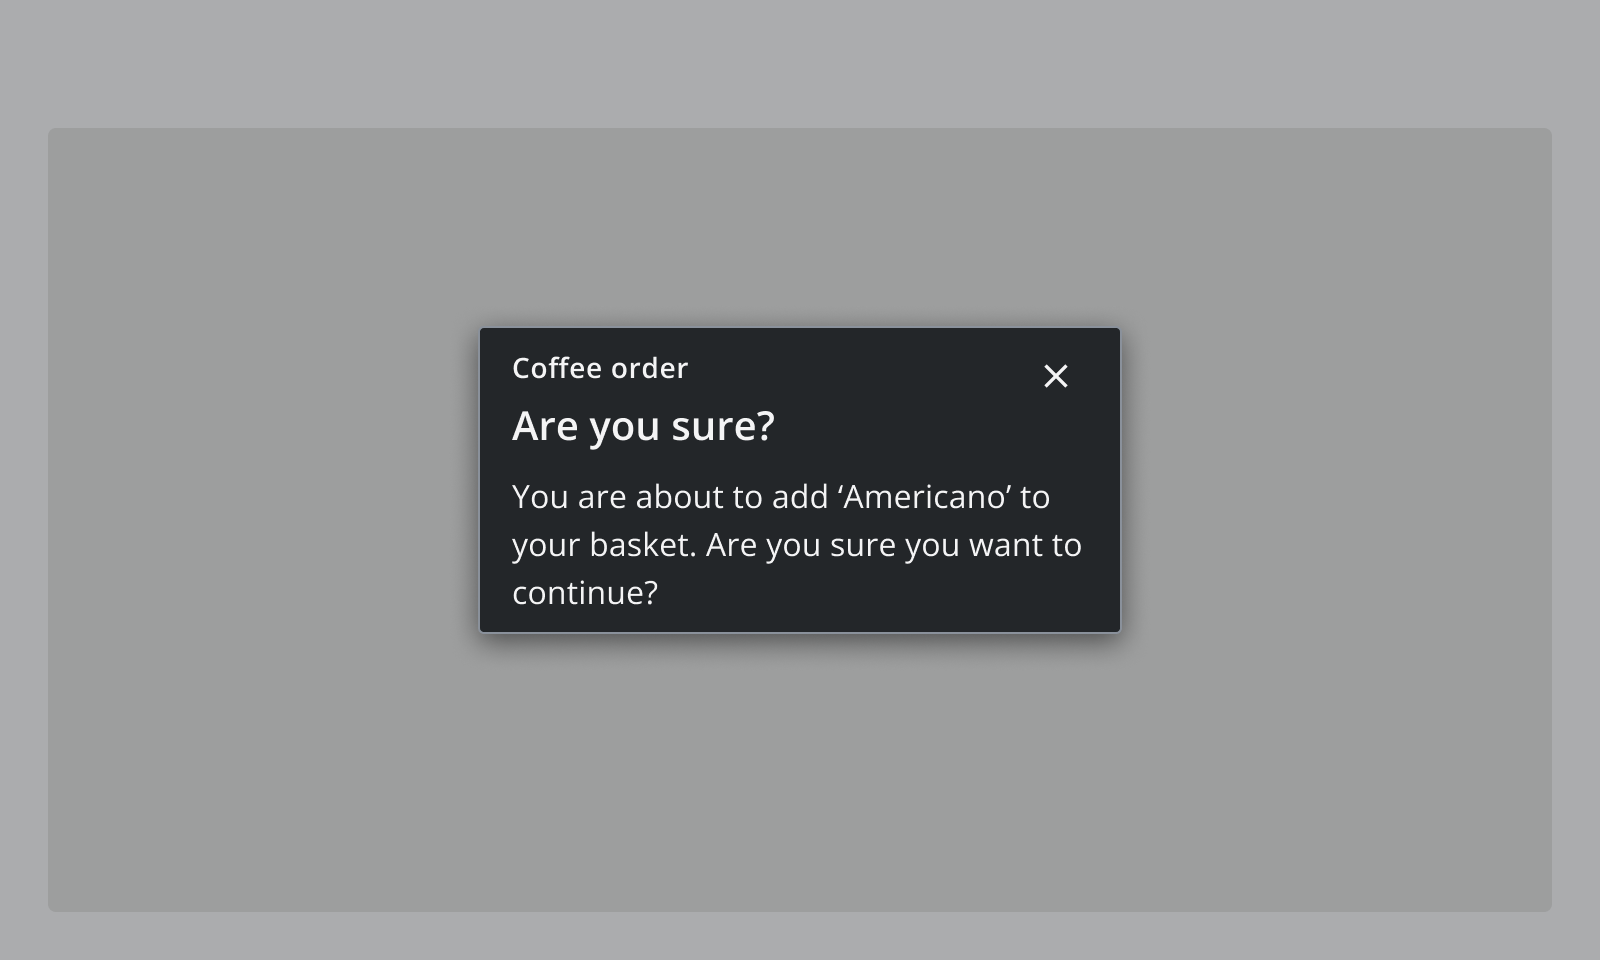
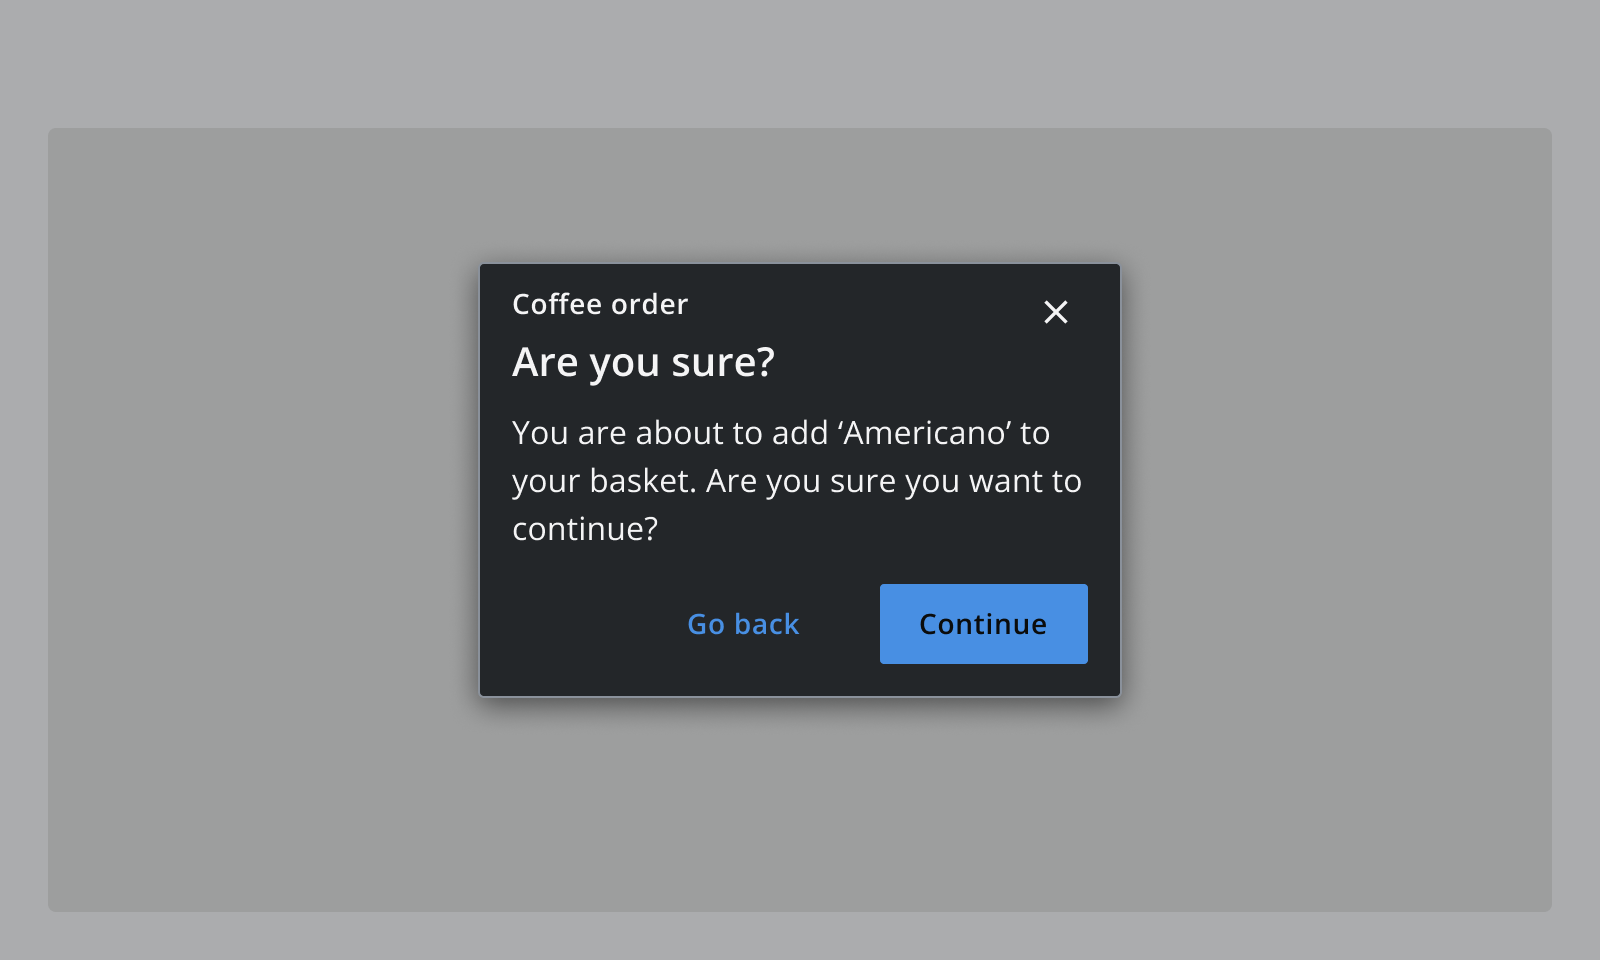
fix(root): update dialog images so they have buttons, standardise styling of captions under videos
Update ThemedVideo component so that it takes a caption prop and standardise the styling of video
captions, replace incorrect images on dialog guidance page

. #1073

diff --git a/src/components/ThemedVideo/index.tsx b/src/components/ThemedVideo/index.tsx
@@ -1,5 +1,6 @@
 /* eslint jsx-a11y/media-has-caption: 0 */
 import React from "react";
+import { IcTypography } from "@ukic/react";
 import { useTheme } from "../../context/ThemeContext";
 import { passImage } from "../../utils/helpers";
 
@@ -11,6 +12,7 @@ interface ThemedVideoProps {
   title?: string;
   src: Array<string> | string;
   type?: any;
+  caption?: string;
 }
 
 const ThemedVideo: React.FC<ThemedVideoProps> = ({
@@ -21,20 +23,31 @@ const ThemedVideo: React.FC<ThemedVideoProps> = ({
   title = "",
   src = "",
   type = "video/mp4",
+  caption = "",
 }) => {
   const vidSrc = passImage(src, useTheme().theme);
 
   return (
-    <video
-      key={vidSrc}
-      width={width}
-      muted={muted}
-      controls={controls}
-      loop={loop}
-      title={title}
-    >
-      <source src={vidSrc} type={type} />
-    </video>
+    <>
+      <video
+        key={vidSrc}
+        width={width}
+        muted={muted}
+        controls={controls}
+        loop={loop}
+        title={title}
+      >
+        <source src={vidSrc} type={type} />
+      </video>
+      {caption !== "" && (
+        <IcTypography
+          variant="label"
+          style={{ marginTop: "-1rem", marginBottom: "1.5rem" }}
+        >
+          {caption}
+        </IcTypography>
+      )}
+    </>
   );
 };
 
